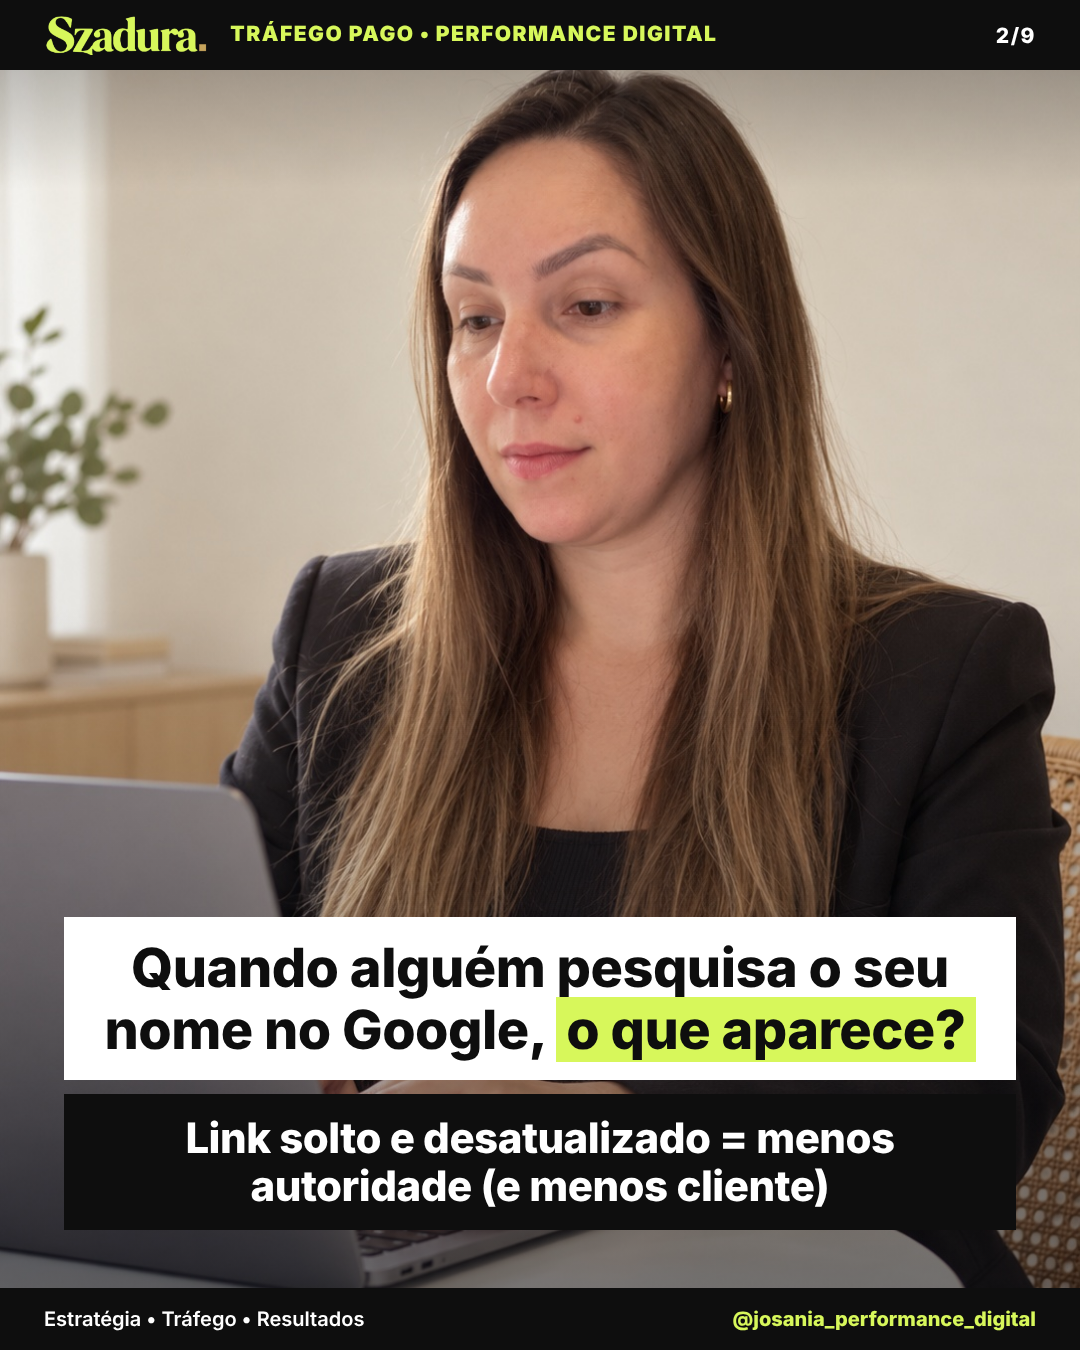
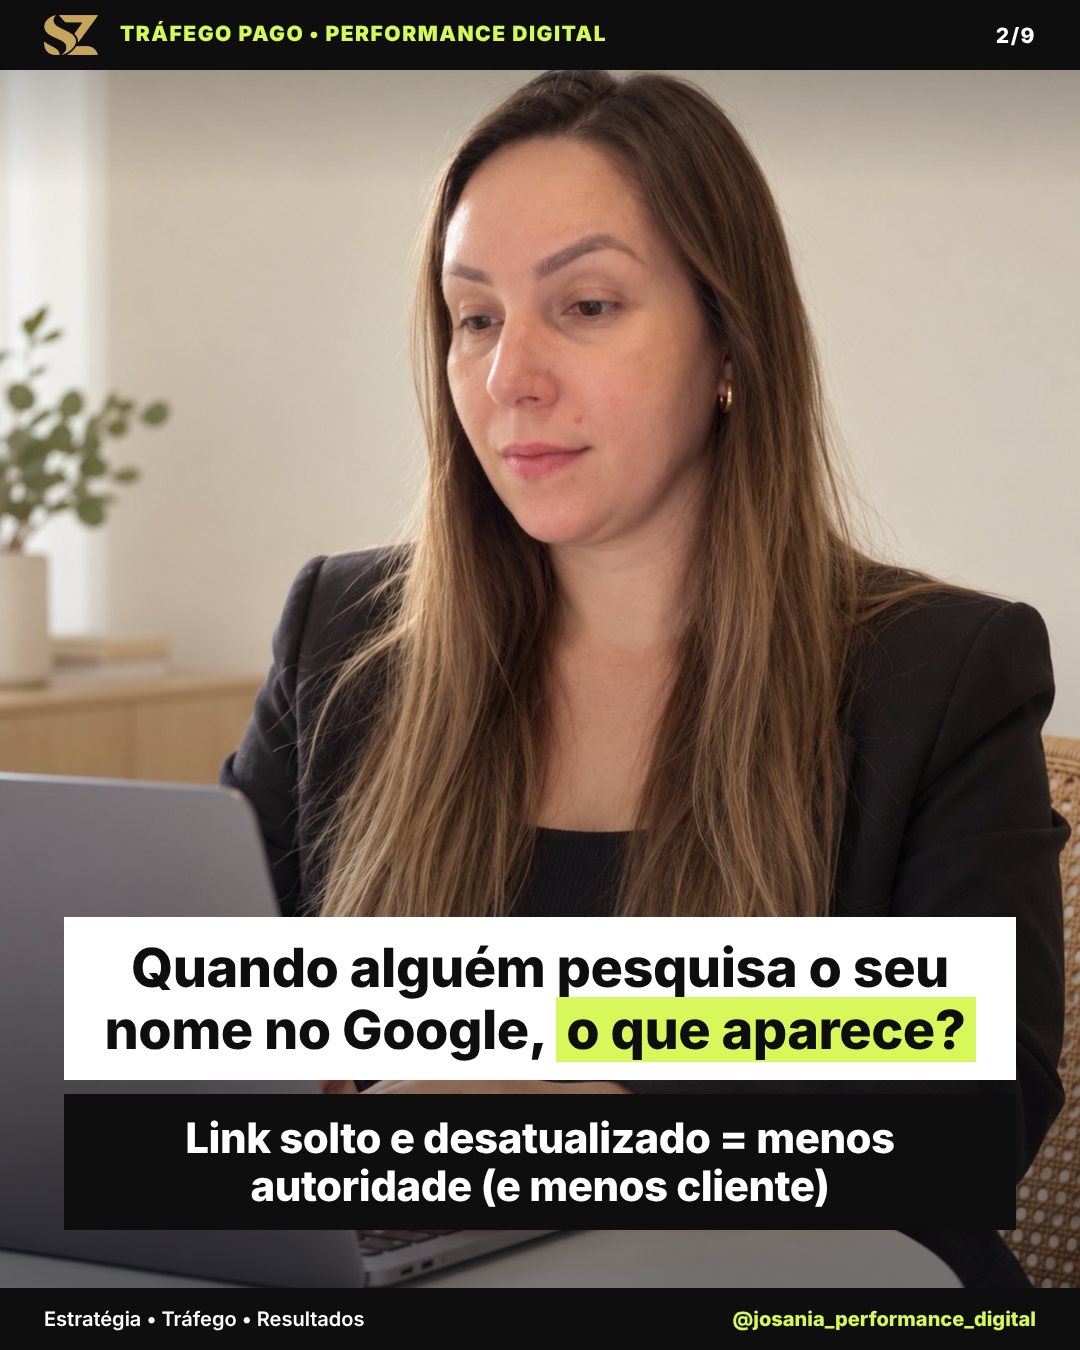
Usa só o monograma SZ no carrossel
Claude-Session: https://claude.ai/code/session_01Cdq3fSAdowyFYcw5UgbxcJ

Changed region(s): [[0.0306, 0.0, 0.6722, 0.0622]]

diff --git a/conteudos/carrossel-perfil-google/gerar.py b/conteudos/carrossel-perfil-google/gerar.py
@@ -34,8 +34,8 @@ body{{width:1080px;height:1350px;overflow:hidden;font-family:Inter,sans-serif}}
 .topo{{position:absolute;top:0;left:0;right:0;height:70px;background:{preto};color:#fff;display:flex;align-items:center;justify-content:space-between;padding:0 44px;font:800 21px Inter;letter-spacing:1.5px;z-index:2}}
 .topo b{{color:{lima}}}
 .topo img{{height:40px;margin-right:22px;vertical-align:middle}}
-.selo{{width:230px;height:230px;margin-bottom:26px;filter:drop-shadow(0 10px 30px rgba(0,0,0,.5))}}
-.selo.canto{{position:absolute;bottom:100%;right:0;margin-bottom:24px;width:200px;height:200px;z-index:2}}
+.selo{{width:220px;margin-bottom:28px;filter:drop-shadow(0 6px 18px rgba(0,0,0,.55))}}
+.selo.canto{{position:absolute;bottom:100%;right:0;margin-bottom:28px;width:170px;z-index:2;filter:drop-shadow(0 6px 18px rgba(0,0,0,.55))}}
 .rodape{{position:absolute;bottom:0;left:0;right:0;height:62px;background:{preto};color:#fff;display:flex;align-items:center;justify-content:space-between;padding:0 44px;font:600 20px Inter;z-index:2}}
 .rodape b{{color:{lima};font-weight:800}}
 .ph{{position:absolute;top:320px;left:0;right:0;text-align:center;font:800 34px Inter;color:#fff;letter-spacing:4px;opacity:.85}}
@@ -73,7 +73,7 @@ body{{width:1080px;height:1350px;overflow:hidden;font-family:Inter,sans-serif}}
 
 def pagina(m, n, conteudo, sem_foto):
     ph = '<div class="ph">SUA FOTO AQUI</div>' if sem_foto else ""
-    topo = f'<img src="{m["logo_uri"]}"><b>{m["assinatura"]}</b>'
+    topo = f'<img src="{m["sz_uri"]}"><b>{m["assinatura"]}</b>'
     return (
         f'<div class="slide">{ph}<div class="topo"><span>{topo}</span><span>{n}/9</span></div>'
         f'<div class="stack">{conteudo}</div>'
@@ -111,7 +111,7 @@ def slides(m):
 <div class="desc" style="font-size:19px;margin-top:6px">Uma nova maneira de criadores se destacarem na Pesquisa.</div>
 <div class="src" style="margin-top:10px;font-size:18px">🔗 creators.google</div></div></div>"""
     return [
-        f'<img class="selo canto" src="{m["selo_uri"]}"><div class="box ouro sm">🚨 ALERTA DE ATUALIZAÇÃO</div><div class="box escuro big">O Google agora tem <span class="hl">perfil de criador</span></div><div class="box lima sm">e quase ninguém ativou ainda 👀</div>',
+        f'<img class="selo canto" src="{m["sz_uri"]}"><div class="box ouro sm">🚨 ALERTA DE ATUALIZAÇÃO</div><div class="box escuro big">O Google agora tem <span class="hl">perfil de criador</span></div><div class="box lima sm">e quase ninguém ativou ainda 👀</div>',
         '<div class="box branco">Quando alguém pesquisa o seu nome no Google, <span class="hla">o que aparece?</span></div><div class="gap"></div><div class="box escuro sm">Link solto e desatualizado = menos autoridade (e menos cliente)</div>',
         f'<div class="box escuro sm">ANTES: era isso que aparecia quando pesquisavam meu nome 👇</div>{antes}',
         f'<div class="box escuro sm">DEPOIS de criar meu perfil no <span class="hl">Google para Criadores</span> 👇</div><div class="box lima" style="font-size:34px">✅ Muito mais completo, com posts que levam direto pro meu Instagram</div>{depois}',
@@ -119,7 +119,7 @@ def slides(m):
         f'<div class="box escuro sm">Criar o seu é muito simples:</div><div class="box branco sm">1) Acesse o site:</div><div class="box lima" style="font-size:42px">creators.google/pt-BR/profile</div>{link}',
         '<div class="box escuro sm">2) Conecte seu Instagram para validar a inscrição</div><div class="box ouro xs">(por enquanto, só para perfis com +10 mil seguidores)</div><div class="gap"></div><div class="box branco sm">3) Conecte suas outras redes sociais</div><div class="gap"></div><div class="box lima sm">4) Conclua o cadastro e acesse seu perfil do Google</div>',
         '<div class="box escuro sm">5) Personalize e deixe todas as suas informações atualizadas</div><div class="gap"></div><div class="box branco sm">Depois de 24h, pesquise seu nome no Google e veja a mudança!</div><div class="gap"></div><div class="box ouro" style="font-size:34px">Tem negócio local? O seu “perfil” é o Google Meu Negócio 📍</div>',
-        f'<img class="selo" src="{m["selo_uri"]}"><div class="box branco">Quer saber das atualizações antes de todo mundo? É só seguir</div><div class="box lima" style="font-size:52px">{perfil}</div>',
+        f'<img class="selo" src="{m["sz_uri"]}"><div class="box branco">Quer saber das atualizações antes de todo mundo? É só seguir</div><div class="box lima" style="font-size:52px">{perfil}</div>',
     ]
 
 
@@ -130,7 +130,7 @@ def main():
     ap.add_argument("--saida", default=str(AQUI / "slides"))
     a = ap.parse_args()
     m = json.loads(Path(a.marca).read_text())
-    for chave in ("logo", "selo"):
+    for chave in ("sz",):
         m[f"{chave}_uri"] = data_uri(AQUI / m[chave])
     foto = data_uri(a.foto) if a.foto and Path(a.foto).exists() else None
     saida = Path(a.saida)
